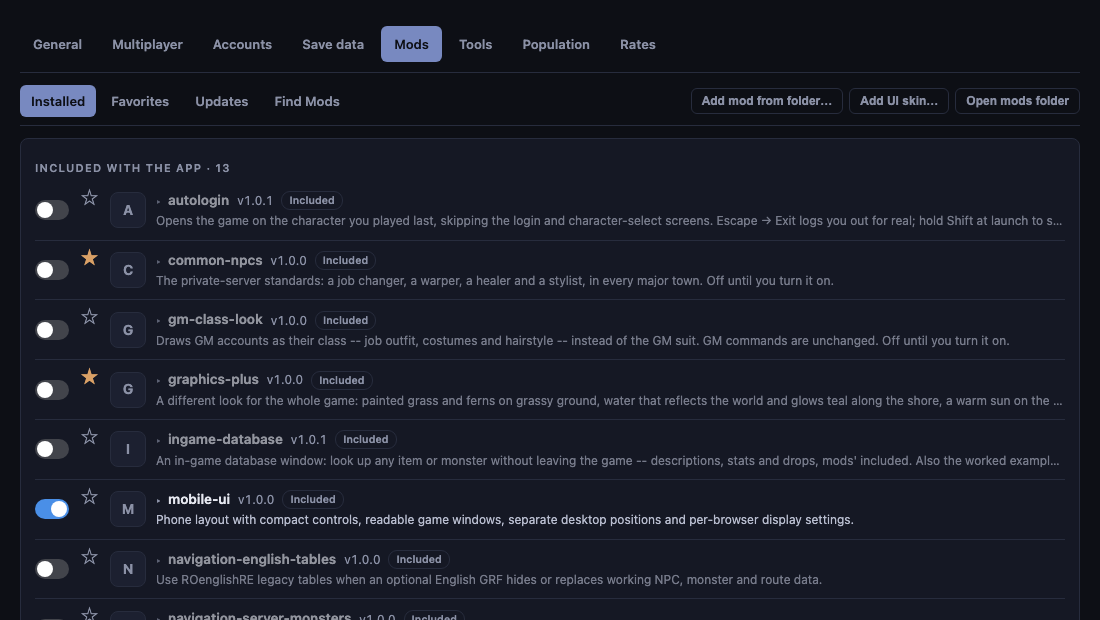
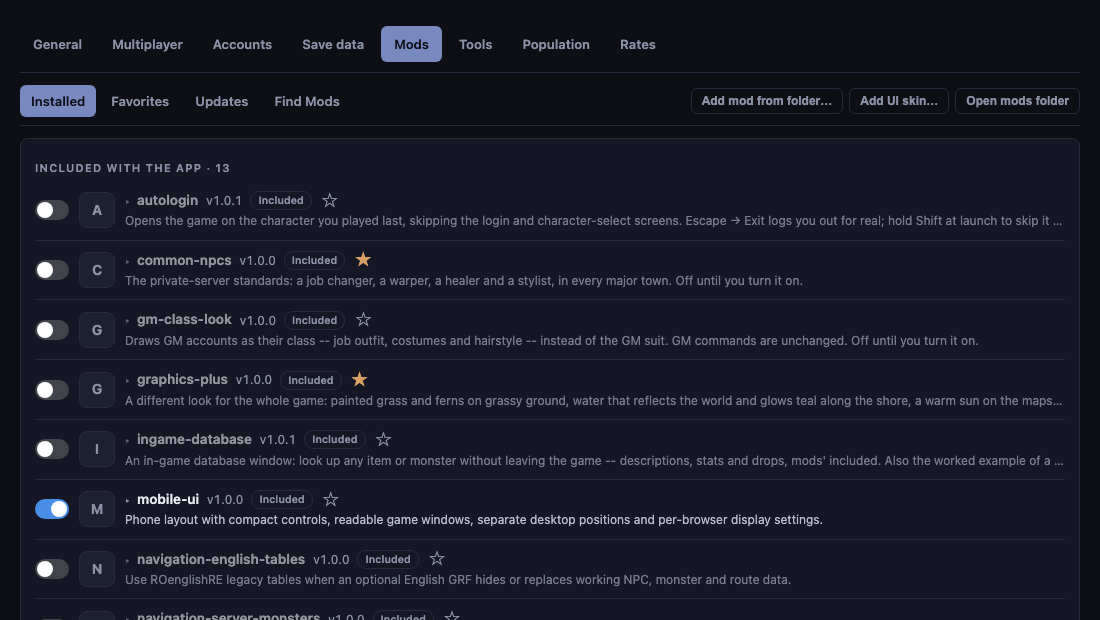
Mods favorites: the Installed star sits after the title and badges
An Installed row was one button around everything, so the star couldn't go on
the title line. The row is now a div that opens on a click, and the mod's name
is the button for the keyboard and screen readers (aria-expanded,
aria-controls); its click reaches the row's once. The star follows the
badges. Screenshots updated.

Claude-Session: https://claude.ai/code/session_01AXrgSbyA2NZ25VZ7MtSWvw

diff --git a/src/settings.html b/src/settings.html
@@ -188,13 +188,16 @@
   .mgroup:first-child { margin-top: 2px; }
   .mrow { border-bottom: 1px solid var(--line); }
   .mrow:last-child { border-bottom: 0; }
-  .mrow-main { display: grid; grid-template-columns: 34px auto minmax(0, 1fr); gap: 4px 10px; align-items: center; }
+  .mrow-main { display: grid; grid-template-columns: 34px minmax(0, 1fr); gap: 10px; align-items: center; }
   .mrow-hit { display: grid; grid-template-columns: 36px minmax(0, 1fr); gap: 10px; align-items: center;
     width: 100%; min-width: 0; padding: 9px 0; background: none; border: 0; border-radius: 6px;
     color: inherit; font: inherit; text-align: left; cursor: pointer; }
   .mrow-hit:hover:not(:disabled) { background: none; }
   .mrow-hit:hover .mname { color: var(--accent-hi); }
-  .mrow-hit:focus-visible { outline: 2px solid var(--accent); outline-offset: 2px; }
+  /* The name is the row's keyboard control (aria-expanded); the rest of the row opens it on a click. */
+  button.mname, button.mname:hover:not(:disabled) { background: none; border: 0; padding: 0; text-align: left;
+    font: inherit; font-weight: 600; font-size: 13.5px; cursor: pointer; border-radius: 3px; }
+  button.mname:focus-visible { outline: 2px solid var(--accent); outline-offset: 2px; }
   .mrow-hit .modicon { width: 36px; height: 36px; font-size: 14px; }
   .mhead { display: flex; flex-wrap: wrap; align-items: center; gap: 2px 8px; min-width: 0; }
   .mname { color: var(--text); font-weight: 600; font-size: 13.5px; overflow-wrap: anywhere; }
@@ -239,7 +242,7 @@
   .star[aria-pressed="true"] { color: var(--warn); }
   .star:focus-visible { outline: 1px solid var(--accent-dim); border-radius: 4px; }
   .modhead .star { align-self: baseline; padding: 0 4px; font-size: 16px; }
-  .mrow-main .star { align-self: flex-start; margin-top: 9px; padding: 0 2px; }
+  .mhead .star { padding: 0 2px; font-size: 16px; }
   .favrow { display: flex; align-items: center; gap: 8px; padding: 6px 0; border-bottom: 1px solid var(--line, #8882); }
   .favrow:last-child { border-bottom: none; }
   .favrow .favname { font-weight: 600; font-size: 13px; color: var(--text); }
@@ -2197,30 +2200,34 @@ function modRow(m, kindBoxes, pendingNames) {
   };
   if (m.kind && !m.refused) (kindBoxes[m.kind] = kindBoxes[m.kind] || []).push([m.name, cb]);
 
-  const hit = el('button', 'mrow-hit');
-  hit.type = 'button';
-  hit.setAttribute('aria-expanded', String(open));
+  // A click anywhere on the row opens it; the name is the button for the keyboard (and for a
+  // screen reader). Not one button around the whole row, so the star can sit on the title line.
+  const hit = el('div', 'mrow-hit');
+  const nameButton = el('button', 'mname', m.name);
+  nameButton.type = 'button';
+  nameButton.setAttribute('aria-expanded', String(open));
   const text = el('div');
   text.style.minWidth = '0';
   const head = el('div', 'mhead');
-  head.append(el('span', 'mname', m.name));
+  head.append(nameButton);
   if (m.version) head.append(el('span', 'modver', 'v' + m.version.replace(/^v/i, '')));
   const badges = el('span', 'mhead badges');
   badges.append(...modBadges(m, pendingNames));
-  head.append(badges);
+  head.append(badges, starButton(m.name));
   text.append(head, el('div', 'mone', m.refused ? 'Not loaded — ' + m.reason : (m.description || '')));
   hit.append(letterTile(m.name), text);
-  main.append(sw, starButton(m.name), hit);
+  main.append(sw, hit);
 
   const more = el('div', 'mrow-more');
   more.hidden = !open;
   more.id = 'mod-more-' + m.name;
-  hit.setAttribute('aria-controls', more.id);
+  nameButton.setAttribute('aria-controls', more.id);
+  // The name's click (a press of Enter or Space included) reaches the row's, once.
   hit.onclick = () => {
     const now = more.hidden;
     more.hidden = !now;
     row.classList.toggle('open', now);
-    hit.setAttribute('aria-expanded', String(now));
+    nameButton.setAttribute('aria-expanded', String(now));
     if (now) modsOpen.add(m.name); else modsOpen.delete(m.name);
   };
 
@@ -2861,7 +2868,7 @@ function openInstalled(name) {
   const row = [...$('mods-list').querySelectorAll('.mrow')].find(r => r.dataset.mod === name);
   if (!row) return;
   row.scrollIntoView({ block: 'center' });
-  row.querySelector('.mrow-hit').focus({ preventScroll: true });
+  row.querySelector('button.mname').focus({ preventScroll: true });
 }
 
 function tagChips(mod, after) {
@@ -3122,10 +3129,10 @@ function showFavorite(name) {
     showModsSub('installed');
     const row = document.querySelector(`#mods-list .mrow[data-mod="${CSS.escape(name)}"]`);
     if (row) {
-      const hit = row.querySelector('.mrow-hit');
-      if (hit && hit.getAttribute('aria-expanded') !== 'true') hit.click();
+      const name = row.querySelector('button.mname');
+      if (name && name.getAttribute('aria-expanded') !== 'true') name.click();
       row.scrollIntoView({ block: 'center' });
-      if (hit) hit.focus();
+      if (name) name.focus();
     }
     return;
   }
